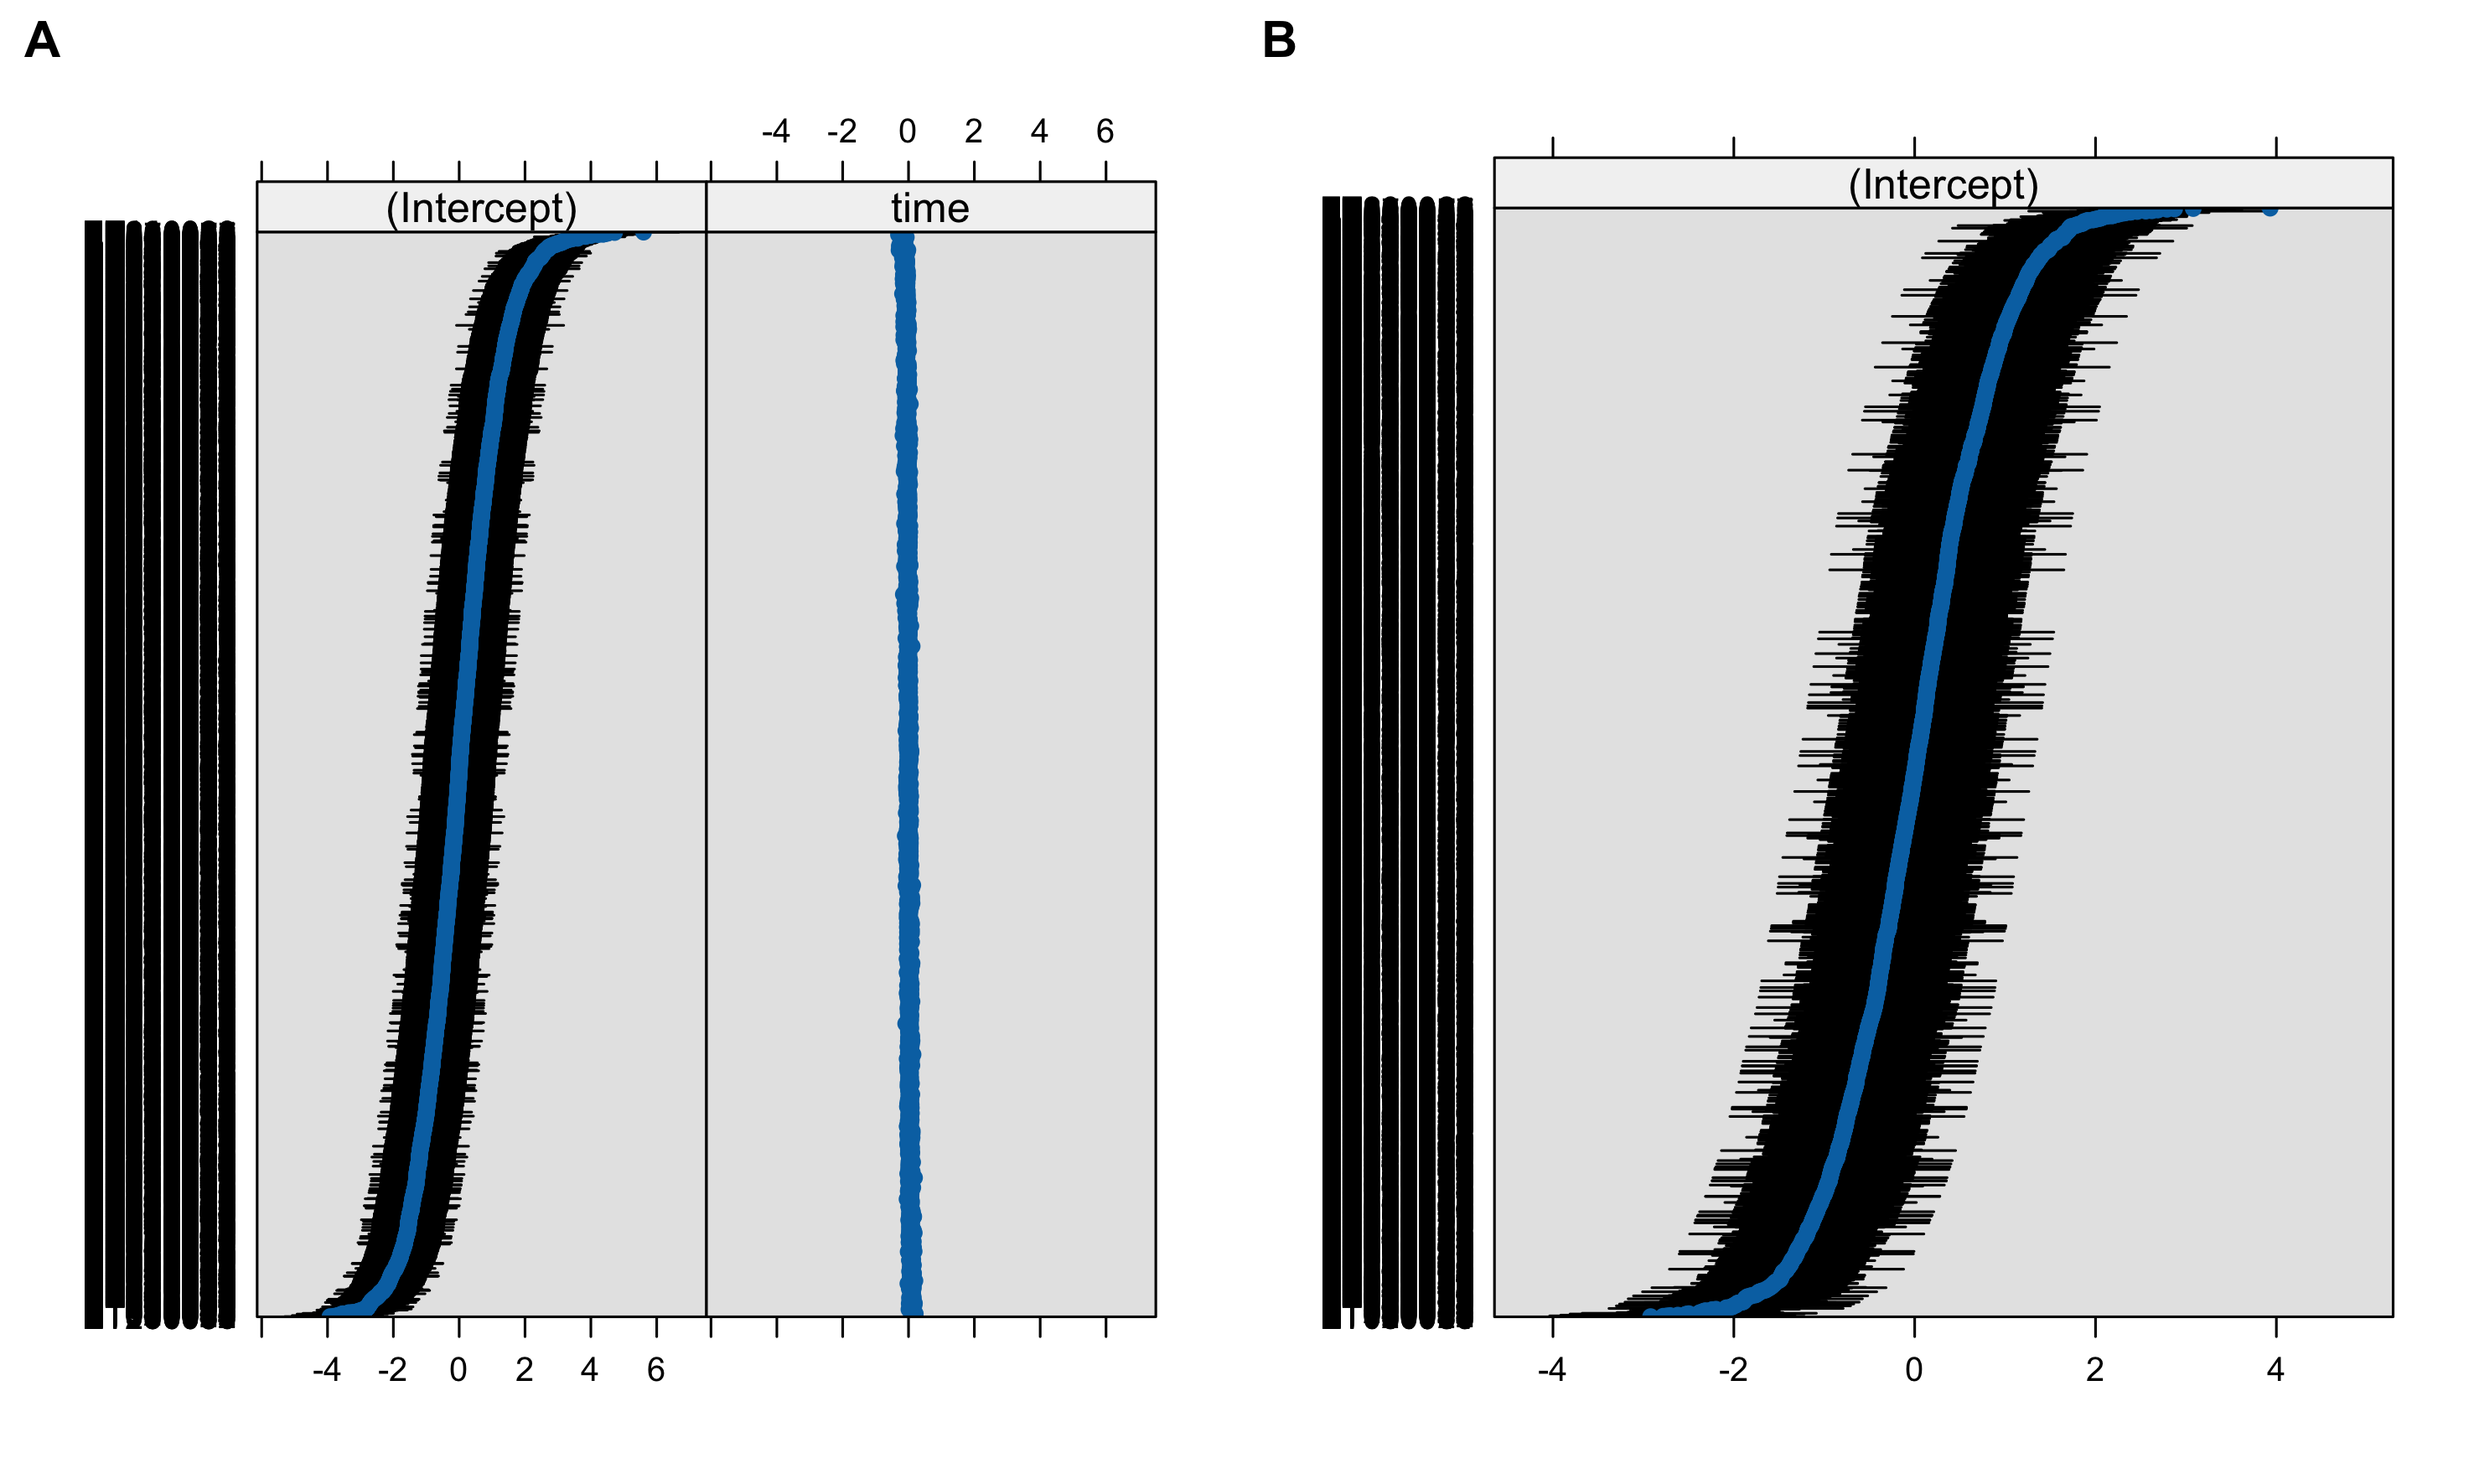
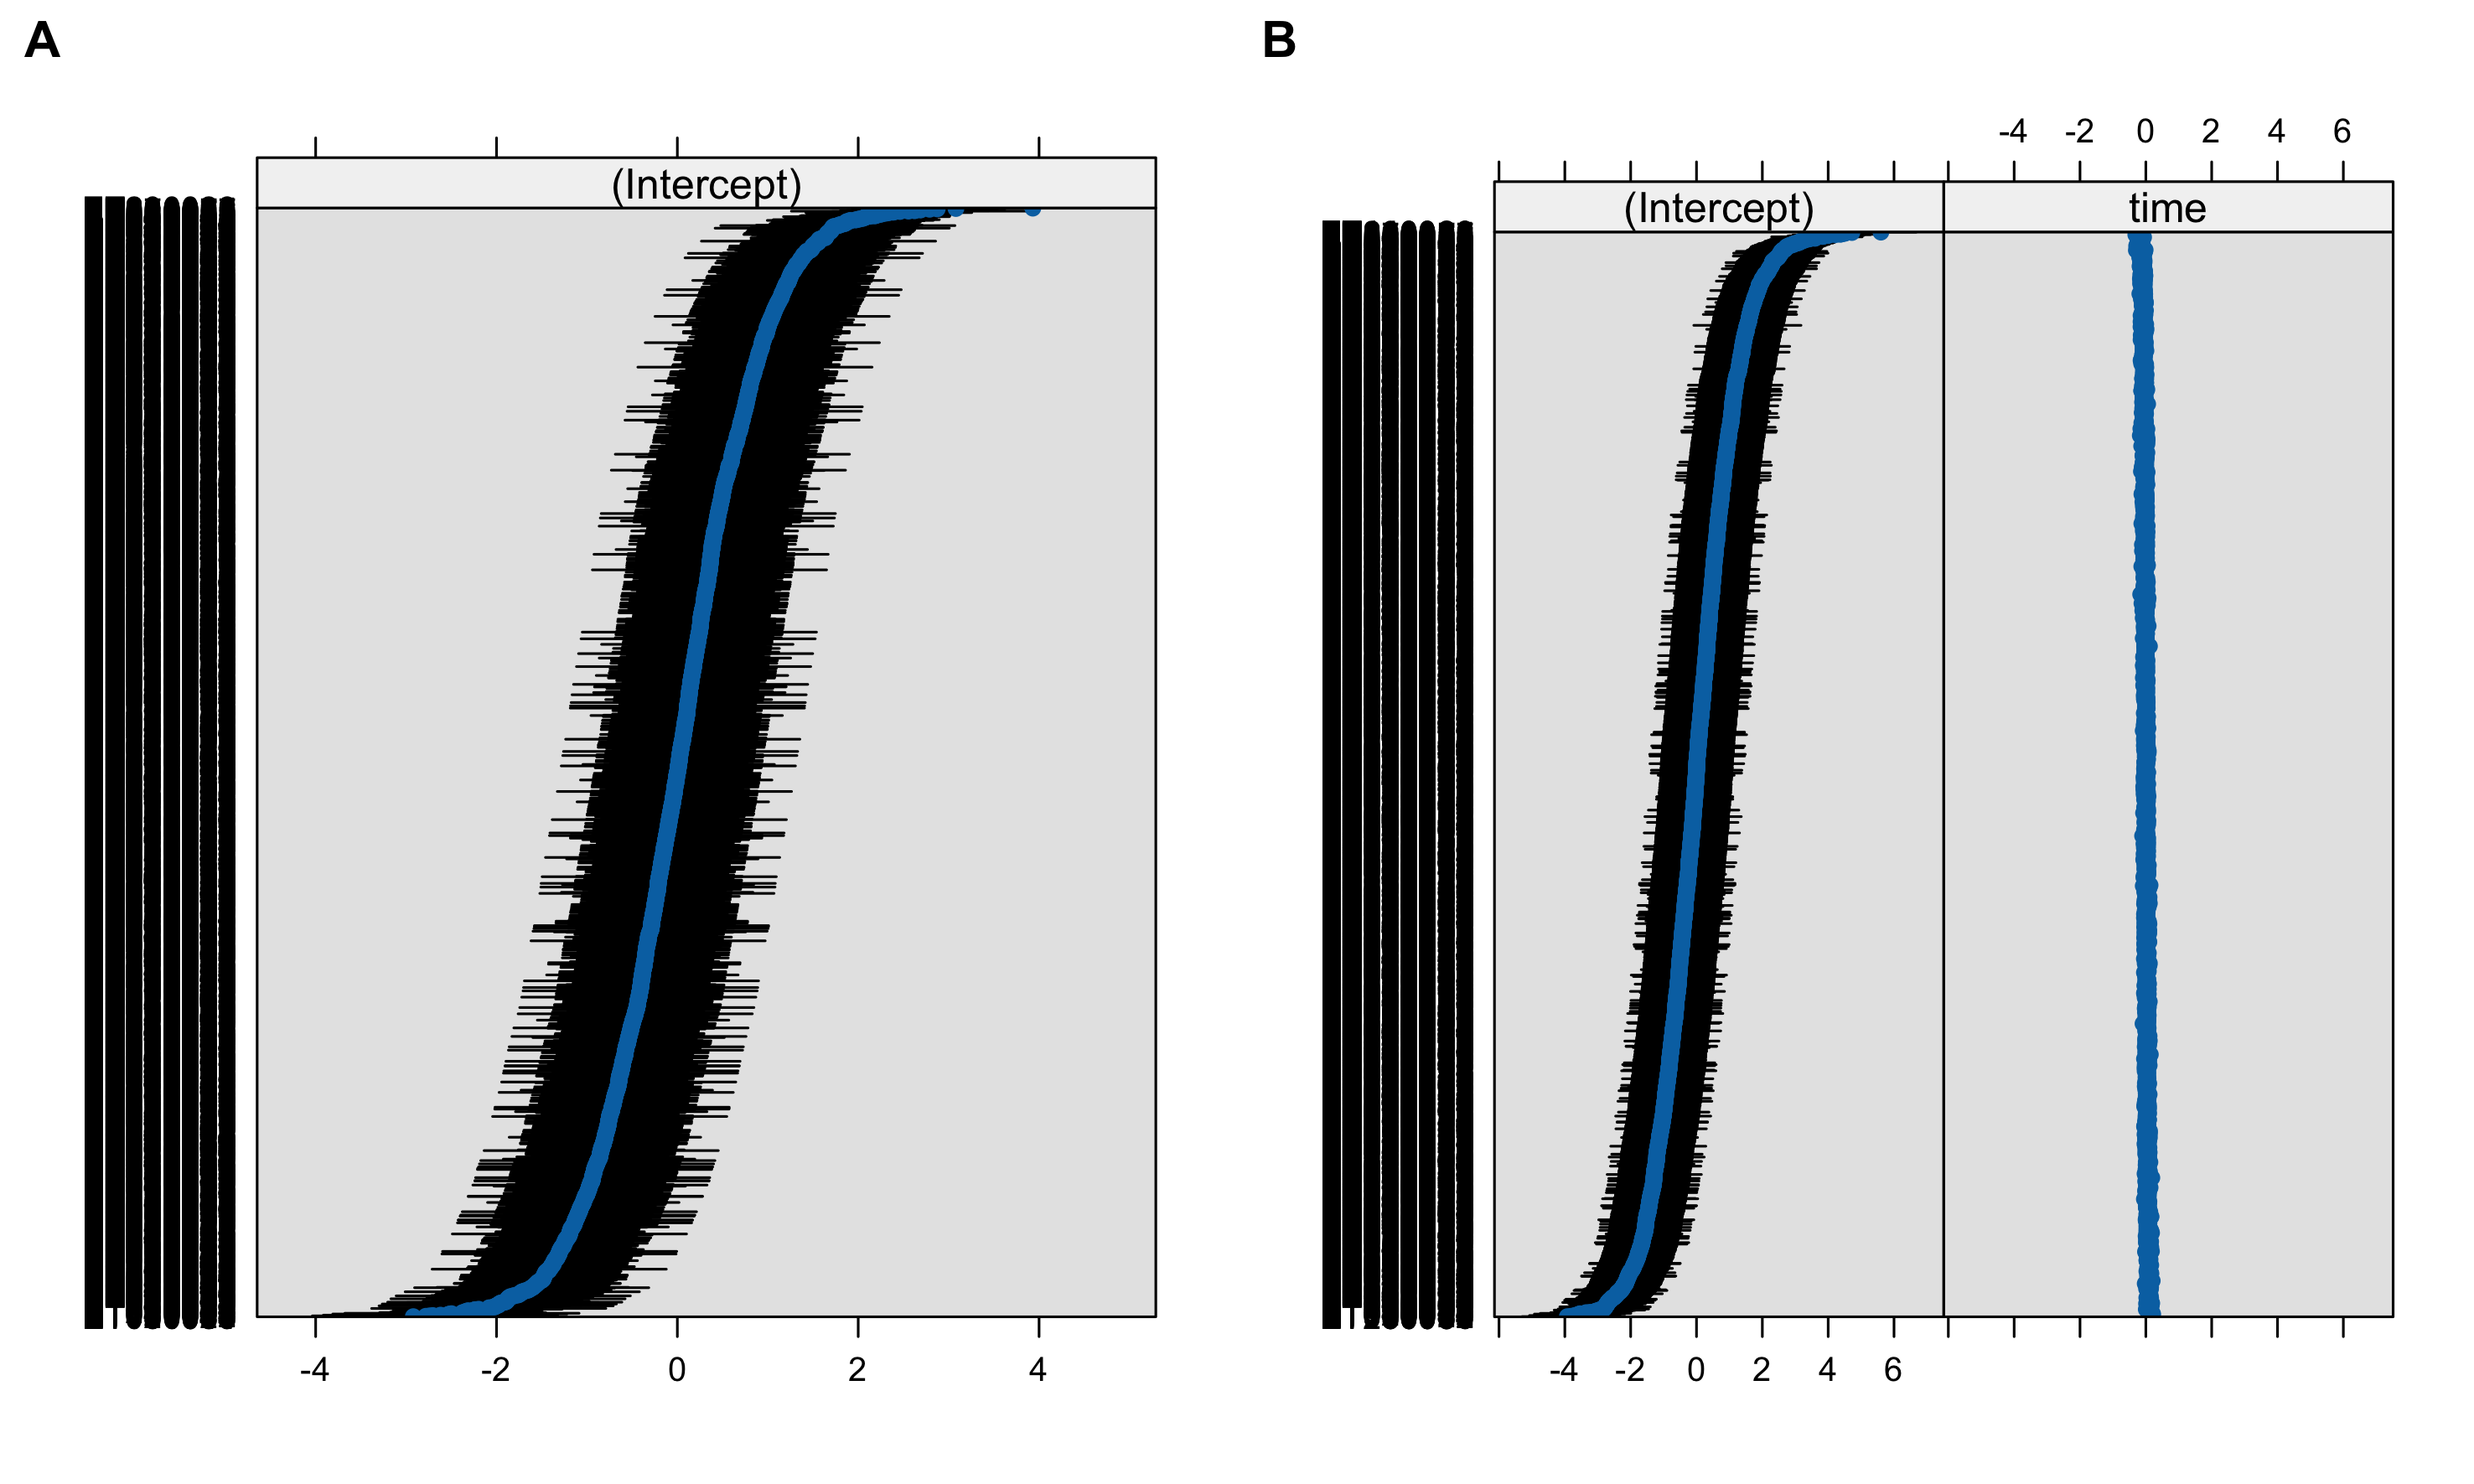
random effect (final)

diff --git a/output/table_random_effect.html b/output/table_random_effect.html
@@ -1,0 +1,109 @@
+<table style="border-collapse:collapse; border:none;">
+<tr>
+<th style="border-top: double; text-align:center; font-style:normal; font-weight:bold; padding:0.2cm;  text-align:left; ">&nbsp;</th>
+<th colspan="2" style="border-top: double; text-align:center; font-style:normal; font-weight:bold; padding:0.2cm; ">RI</th>
+<th colspan="2" style="border-top: double; text-align:center; font-style:normal; font-weight:bold; padding:0.2cm; ">RS_age</th>
+</tr>
+<tr>
+<td style=" text-align:center; border-bottom:1px solid; font-style:italic; font-weight:normal;  text-align:left; ">Predictors</td>
+<td style=" text-align:center; border-bottom:1px solid; font-style:italic; font-weight:normal;  ">Estimates</td>
+<td style=" text-align:center; border-bottom:1px solid; font-style:italic; font-weight:normal;  ">std. Error</td>
+<td style=" text-align:center; border-bottom:1px solid; font-style:italic; font-weight:normal;  ">Estimates</td>
+<td style=" text-align:center; border-bottom:1px solid; font-style:italic; font-weight:normal;  ">std. Error</td>
+</tr>
+<tr>
+<td style=" padding:0.2cm; text-align:left; vertical-align:top; text-align:left; ">(Intercept)</td>
+<td style=" padding:0.2cm; text-align:left; vertical-align:top; text-align:center;  ">&#45;1.63 <sup>***</sup></td>
+<td style=" padding:0.2cm; text-align:left; vertical-align:top; text-align:center;  ">0.04</td>
+<td style=" padding:0.2cm; text-align:left; vertical-align:top; text-align:center;  ">&#45;1.60 <sup>***</sup></td>
+<td style=" padding:0.2cm; text-align:left; vertical-align:top; text-align:center;  ">0.04</td>
+</tr>
+<tr>
+<td style=" padding:0.2cm; text-align:left; vertical-align:top; text-align:left; ">chsex [2]</td>
+<td style=" padding:0.2cm; text-align:left; vertical-align:top; text-align:center;  ">0.13 <sup>*</sup></td>
+<td style=" padding:0.2cm; text-align:left; vertical-align:top; text-align:center;  ">0.05</td>
+<td style=" padding:0.2cm; text-align:left; vertical-align:top; text-align:center;  ">0.13 <sup>*</sup></td>
+<td style=" padding:0.2cm; text-align:left; vertical-align:top; text-align:center;  ">0.06</td>
+</tr>
+<tr>
+<td style=" padding:0.2cm; text-align:left; vertical-align:top; text-align:left; ">time</td>
+<td style=" padding:0.2cm; text-align:left; vertical-align:top; text-align:center;  ">0.01 <sup></sup></td>
+<td style=" padding:0.2cm; text-align:left; vertical-align:top; text-align:center;  ">0.00</td>
+<td style=" padding:0.2cm; text-align:left; vertical-align:top; text-align:center;  ">0.00 <sup></sup></td>
+<td style=" padding:0.2cm; text-align:left; vertical-align:top; text-align:center;  ">0.00</td>
+</tr>
+<tr>
+<td style=" padding:0.2cm; text-align:left; vertical-align:top; text-align:left; ">drwaterq new [1]</td>
+<td style=" padding:0.2cm; text-align:left; vertical-align:top; text-align:center;  ">0.08 <sup></sup></td>
+<td style=" padding:0.2cm; text-align:left; vertical-align:top; text-align:center;  ">0.04</td>
+<td style=" padding:0.2cm; text-align:left; vertical-align:top; text-align:center;  ">0.02 <sup></sup></td>
+<td style=" padding:0.2cm; text-align:left; vertical-align:top; text-align:center;  ">0.04</td>
+</tr>
+<tr>
+<td style=" padding:0.2cm; text-align:left; vertical-align:top; text-align:left; ">age first c</td>
+<td style=" padding:0.2cm; text-align:left; vertical-align:top; text-align:center;  ">0.00 <sup>*</sup></td>
+<td style=" padding:0.2cm; text-align:left; vertical-align:top; text-align:center;  ">0.00</td>
+<td style=" padding:0.2cm; text-align:left; vertical-align:top; text-align:center;  ">0.00 <sup>***</sup></td>
+<td style=" padding:0.2cm; text-align:left; vertical-align:top; text-align:center;  ">0.00</td>
+</tr>
+<tr>
+<td style=" padding:0.2cm; text-align:left; vertical-align:top; text-align:left; ">chsex [2] × time</td>
+<td style=" padding:0.2cm; text-align:left; vertical-align:top; text-align:center;  ">0.02 <sup>***</sup></td>
+<td style=" padding:0.2cm; text-align:left; vertical-align:top; text-align:center;  ">0.00</td>
+<td style=" padding:0.2cm; text-align:left; vertical-align:top; text-align:center;  ">0.02 <sup>***</sup></td>
+<td style=" padding:0.2cm; text-align:left; vertical-align:top; text-align:center;  ">0.00</td>
+</tr>
+<tr>
+<td style=" padding:0.2cm; text-align:left; vertical-align:top; text-align:left; ">chsex [2] × drwaterq new<br>[1]</td>
+<td style=" padding:0.2cm; text-align:left; vertical-align:top; text-align:center;  ">0.06 <sup></sup></td>
+<td style=" padding:0.2cm; text-align:left; vertical-align:top; text-align:center;  ">0.04</td>
+<td style=" padding:0.2cm; text-align:left; vertical-align:top; text-align:center;  ">0.04 <sup></sup></td>
+<td style=" padding:0.2cm; text-align:left; vertical-align:top; text-align:center;  ">0.04</td>
+</tr>
+<tr>
+<td style=" padding:0.2cm; text-align:left; vertical-align:top; text-align:left; ">time × drwaterq new [1]</td>
+<td style=" padding:0.2cm; text-align:left; vertical-align:top; text-align:center;  ">&#45;0.00 <sup></sup></td>
+<td style=" padding:0.2cm; text-align:left; vertical-align:top; text-align:center;  ">0.00</td>
+<td style=" padding:0.2cm; text-align:left; vertical-align:top; text-align:center;  ">0.00 <sup></sup></td>
+<td style=" padding:0.2cm; text-align:left; vertical-align:top; text-align:center;  ">0.00</td>
+</tr>
+<tr>
+<td colspan="5" style="font-weight:bold; text-align:left; padding-top:.8em;">Random Effects</td>
+</tr>
+
+<tr>
+<td style=" padding:0.2cm; text-align:left; vertical-align:top; text-align:left; padding-top:0.1cm; padding-bottom:0.1cm;">&sigma;<sup>2</sup></td>
+<td style=" padding:0.2cm; text-align:left; vertical-align:top; padding-top:0.1cm; padding-bottom:0.1cm; text-align:left;" colspan="2">0.88</td>
+<td style=" padding:0.2cm; text-align:left; vertical-align:top; padding-top:0.1cm; padding-bottom:0.1cm; text-align:left;" colspan="2">0.69</td>
+</tr>
+
+<tr>
+<td style=" padding:0.2cm; text-align:left; vertical-align:top; text-align:left; padding-top:0.1cm; padding-bottom:0.1cm;">&tau;<sub>00</sub></td>
+<td style=" padding:0.2cm; text-align:left; vertical-align:top; padding-top:0.1cm; padding-bottom:0.1cm; text-align:left;" colspan="2">0.87 <sub>childid</sub></td>
+<td style=" padding:0.2cm; text-align:left; vertical-align:top; padding-top:0.1cm; padding-bottom:0.1cm; text-align:left;" colspan="2">1.69 <sub>childid</sub></td>
+
+<tr>
+<td style=" padding:0.2cm; text-align:left; vertical-align:top; text-align:left; padding-top:0.1cm; padding-bottom:0.1cm;">&tau;<sub>11</sub></td>
+<td style=" padding:0.2cm; text-align:left; vertical-align:top; padding-top:0.1cm; padding-bottom:0.1cm; text-align:left;" colspan="2">&nbsp;</td>
+<td style=" padding:0.2cm; text-align:left; vertical-align:top; padding-top:0.1cm; padding-bottom:0.1cm; text-align:left;" colspan="2">0.01 <sub>childid.time</sub></td>
+
+<tr>
+<td style=" padding:0.2cm; text-align:left; vertical-align:top; text-align:left; padding-top:0.1cm; padding-bottom:0.1cm;">&rho;<sub>01</sub></td>
+<td style=" padding:0.2cm; text-align:left; vertical-align:top; padding-top:0.1cm; padding-bottom:0.1cm; text-align:left;" colspan="2">&nbsp;</td>
+<td style=" padding:0.2cm; text-align:left; vertical-align:top; padding-top:0.1cm; padding-bottom:0.1cm; text-align:left;" colspan="2">-0.78 <sub>childid</sub></td>
+
+<tr>
+<td style=" padding:0.2cm; text-align:left; vertical-align:top; text-align:left; padding-top:0.1cm; padding-bottom:0.1cm;">ICC</td>
+<td style=" padding:0.2cm; text-align:left; vertical-align:top; padding-top:0.1cm; padding-bottom:0.1cm; text-align:left;" colspan="2">0.50</td>
+<td style=" padding:0.2cm; text-align:left; vertical-align:top; padding-top:0.1cm; padding-bottom:0.1cm; text-align:left;" colspan="2">0.60</td>
+<tr>
+<td style=" padding:0.2cm; text-align:left; vertical-align:top; text-align:left; padding-top:0.1cm; padding-bottom:0.1cm; border-top:1px solid;">AIC</td>
+<td style=" padding:0.2cm; text-align:left; vertical-align:top; padding-top:0.1cm; padding-bottom:0.1cm; text-align:left; border-top:1px solid;" colspan="2">39597.113</td>
+<td style=" padding:0.2cm; text-align:left; vertical-align:top; padding-top:0.1cm; padding-bottom:0.1cm; text-align:left; border-top:1px solid;" colspan="2">38759.726</td>
+</tr>
+<tr>
+<td colspan="5" style="font-style:italic; border-top:double black; text-align:right;">* p&lt;0.05&nbsp;&nbsp;&nbsp;** p&lt;0.01&nbsp;&nbsp;&nbsp;*** p&lt;0.001</td>
+</tr>
+
+</table>
+
